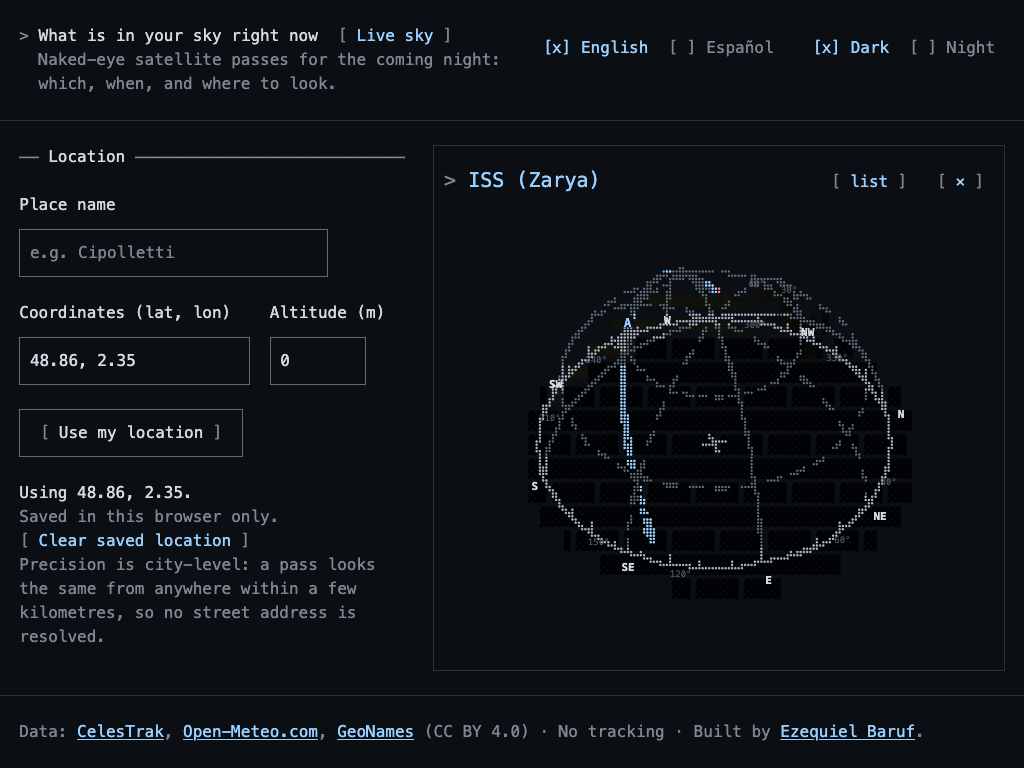
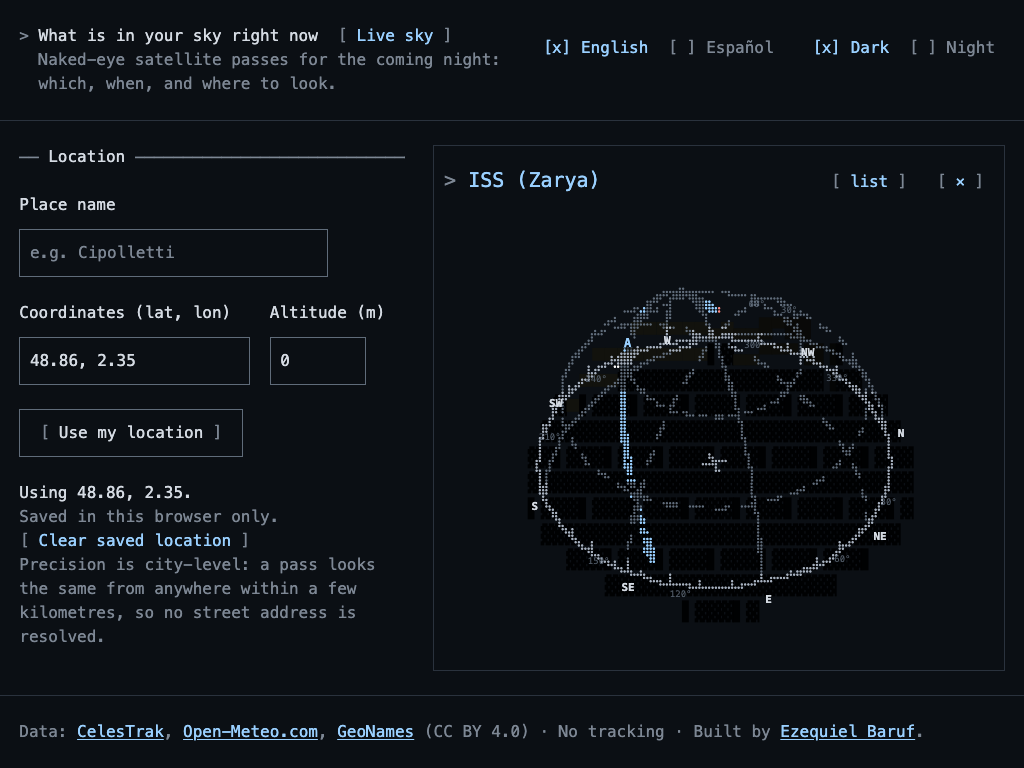
R60: v1.2 release preparation (#95)
* R60: bump version to 1.2.0

* R60: top up the v1 capture set — window ground states, live following, R61's wide sizes

* R60: generate topped-up v1 captures and re-shoot the desktop dome captures V12-11 moved

* R60: re-set bundle budgets by the D-178 rule (D-307) — chart moves to 105 KB

* R60: close F-54..F-56 and F-59..F-61 in the findings register

* R60: update the release checklist for v1.2 and size the captures job for 128 files

* R60: check off v1.2 release preparation

* R60: measure bundle budgets against the flag-on build CI actually enforces — main moves to 155

Changed region(s): [[0.5, 0.3438, 0.875, 0.7812], [0.7188, 0.625, 0.7812, 0.6875]]

diff --git a/tests/e2e/v1-captures.spec.ts b/tests/e2e/v1-captures.spec.ts
@@ -35,7 +35,7 @@
 import { expect, test, type Locator, type Page } from '@playwright/test';
 import type { Observer } from '../../src/model';
 import { CAPTURE_DIR, captureName, LOCALES, SCREENS, THEMES, VIEWPORTS, type CaptureLocale, type CaptureTheme, type CaptureWidth } from './captureSet';
-import { domeDrawn, hhmmss, openSettings, stripFilled, stubCompass } from './liveHelpers';
+import { domeDrawn, heading, hhmmss, openSettings, stripFilled, stubCompass } from './liveHelpers';
 // Both observers are at altitude 0, which is what typing a coordinate pair gives (FR-LOC-4) and what
 // the committed pass ids were computed at: a seeded altitude would move every pass start by a second
 // or two and the glare pass would no longer be found by its id. Only Paris is observed from; Neuquén
@@ -107,11 +107,18 @@ const FULL_PAGE = new Set(['location', 'home', 'settings']);
  * touch panel. Playwright grants touch per context, so these tests need a
  * `test.use` of their own and the rest of the set must not have it.
  */
-const TOUCH = new Set(['window']);
+const TOUCH = new Set(['window', 'window-ground', 'window-buried', 'live-following']);
 
 const VIEW_GROUP = { en: 'Chart view', es: 'Vista del gráfico' } as const;
 const WINDOW_OPTION = { en: 'Window', es: 'Ventana' } as const;
+const FOLLOW = { en: 'Follow phone', es: 'Seguir al teléfono' } as const;
 const FRAME_MS = 16;
+
+/** The two states R56 added to the window: `state` is how far below the horizon the phone points, in a square 60° box (R56's own numbers). */
+const GROUND_STATE: Record<'window-ground' | 'window-buried', { altDeg: number; state: 'ground' | 'buried' }> = {
+  'window-ground': { altDeg: -10, state: 'ground' },
+  'window-buried': { altDeg: -60, state: 'buried' },
+};
 
 interface SeedPrefs {
   locale: CaptureLocale;
@@ -269,6 +276,48 @@ async function settle(page: Page): Promise<void> {
   await page.clock.runFor(40 * FRAME_MS);
 }
 
+/** R56's two ground states, reached the same way `window` is: the pass's dome view, switched to the window, then swept down. */
+async function windowGroundState(page: Page, width: CaptureWidth, theme: CaptureTheme, locale: CaptureLocale, screen: 'window-ground' | 'window-buried'): Promise<void> {
+  const { altDeg, state } = GROUND_STATE[screen];
+  await stubCompass(page);
+  await openChart(page, width, theme, locale, 'dome');
+  const figure = guide(page).getByRole('figure');
+  await figure.getByRole('group', { name: VIEW_GROUP[locale] }).getByRole('button', { name: WINDOW_OPTION[locale] }).click();
+  // The paused clock holds the lazy chunk's Suspense reveal (R32), as it does for the dome.
+  await page.clock.runFor(1000);
+  await expect(figure).toHaveAttribute('data-view', 'window');
+  const drawing = figure.locator('[data-look-az]');
+  await expect(drawing).toBeAttached();
+  // Down the pass's own azimuth, so the sky the `ground` state still holds is the sky with the arc in it.
+  const azDeg = Number(await drawing.getAttribute('data-look-az'));
+  await point(page, azDeg, altDeg);
+  await settle(page);
+  await expect(drawing).toHaveAttribute('data-ground', state);
+  await page.mouse.move(0, 0);
+}
+
+/** R59's following state: the follow control pressed, and a heading turned until the pass's arc is in the window. */
+async function liveFollowing(page: Page, width: CaptureWidth, theme: CaptureTheme, locale: CaptureLocale): Promise<void> {
+  await stubCompass(page);
+  await liveAt(page, width, theme, locale);
+  await page.getByRole('button', { name: FOLLOW[locale] }).click();
+  await heading(page, 270);
+  await expect(page.getByTestId('follow-toggle')).toHaveAttribute('aria-pressed', 'true');
+  // The paused clock holds the lazy chunk's Suspense reveal (R32).
+  await page.clock.runFor(1000);
+  await expect(page.getByTestId('sky-chart')).toHaveAttribute('data-view', 'window');
+  await expect(page.getByTestId('stripe-block')).toHaveCount(0);
+  const window_ = page.locator('[data-look-az]');
+  await expect(window_).toBeAttached();
+  // Turned to where the pass is: the picture is worth more with an arc in it than with an empty sky.
+  for (const azDeg of [0, 30, 60, 90, 120, 150, 180, 210, 240, 270, 300, 330]) {
+    await point(page, azDeg, 20);
+    await settle(page);
+    if ((await page.locator('[data-drawing="window"] [data-pass-id]').count()) > 0) break;
+  }
+  await page.mouse.move(0, 0);
+}
+
 type Reach = (page: Page, width: CaptureWidth, theme: CaptureTheme, locale: CaptureLocale) => Promise<void>;
 
 /** Every screen's route to itself, by the name it carries in `captureSet.ts`. */
@@ -363,6 +412,20 @@ const REACH: Record<string, Reach> = {
   },
 
   /**
+   * R60 (FR-FOL-5, R56): the window swept down out of the sky, at whichever of
+   * the two states its own screen name carries. The look direction is down the
+   * pass's own azimuth, as R56's captures do it, so the `ground` state still
+   * has an arc left to show above the hatch.
+   */
+  async 'window-ground'(page, width, theme, locale) {
+    await windowGroundState(page, width, theme, locale, 'window-ground');
+  },
+
+  async 'window-buried'(page, width, theme, locale) {
+    await windowGroundState(page, width, theme, locale, 'window-buried');
+  },
+
+  /**
    * R53 (FR-LEG-2..4): the legend with something in every column. The live page
    * is the only screen that has all of it at once — the drawn passes in their
    * FR-TRAJ-1 states (`up`, `soon`, `gone`) and, with the FR-LIVE-6 toggle on,
@@ -425,6 +488,11 @@ const REACH: Record<string, Reach> = {
 
   async live(page, width, theme, locale) {
     await liveAt(page, width, theme, locale);
+  },
+
+  /** R60 (FR-FOL-1, R59): the live page with `[ follow phone ]` pressed. */
+  async 'live-following'(page, width, theme, locale) {
+    await liveFollowing(page, width, theme, locale);
   },
 };
 

diff --git a/tests/e2e/captureSet.ts b/tests/e2e/captureSet.ts
@@ -20,6 +20,14 @@
  * app's screens and not a phase's. The 1024 px profile R50 added for the home
  * and the guide (D-192) is the fourth thing SPEC §9 asks for and is already
  * here.
+ *
+ * R60 (SPEC §9 Phase 2c): v1.2 added two states the window can be in (FR-FOL-5,
+ * R56) and one the live page can be in (FR-FOL-1, R59), so `window-ground` and
+ * `window-buried` join `window` and `live-following` joins `live` — a state
+ * is a screen here when a reader can be looking at nothing else, the same
+ * reasoning `window` and `legend` already carry. And R61's rail (F-59) widens
+ * `live` itself: 1920, 2560 and 3840 join 1280 as the sizes a wide live page is
+ * shot at, since the rail only appears from `LIVE_TWO_COLUMN_MIN_PX` up.
  */
 
 export const THEMES = ['dark', 'night'] as const;
@@ -44,6 +52,9 @@ export const VIEWPORTS = {
   844: { width: 844, height: 390 },
   1024: { width: 1024, height: 768 },
   1280: { width: 1280, height: 800 },
+  1920: { width: 1920, height: 1080 },
+  2560: { width: 2560, height: 1440 },
+  3840: { width: 3840, height: 2160 },
 } as const;
 export type CaptureWidth = keyof typeof VIEWPORTS;
 
@@ -68,10 +79,13 @@ export const SCREENS: readonly CaptureScreen[] = [
   { name: 'guide', widths: [390, 1024, 1280], what: 'A pass open on the dome view, mid-pass, with the Sun and the Moon on the chart. At 1024 it has the right column to itself (F-6).' },
   { name: 'polar', widths: [390, 1280], what: 'The same pass on the polar view: the live marker and the flown arc as elements.' },
   { name: 'window', widths: [390, 1280], what: 'The sky window (FR-WIN-1) on the same pass, aimed at its peak by a stubbed orientation reading: the horizon, the compass names, the arc and the legend. A touch device at both widths, since that — not the width — is what FR-WIN-4 offers the view on.' },
+  { name: 'window-ground', widths: [390, 1280], what: 'The window swept 10° below the horizon (FR-FOL-5, R56): the hatch fills the ground and the sky above it keeps drawing.' },
+  { name: 'window-buried', widths: [390, 1280], what: 'The window swept 60° below the horizon (FR-FOL-5, R56): no sky is left in the field, and the box is the hatched panel with its note.' },
   { name: 'legend', widths: [390, 1280], what: 'The legend in its states (FR-LEG-3): the live page with the hidden objects shown, so the rows carry `up`, `soon`, `gone` and the FR-LIVE-6 reasons, and one row activated so its arc is highlighted and the others dim (FR-LEG-4). Under the drawing at 390, beside it at 1280 (FR-LEG-2).' },
   { name: 'favourites', widths: [390, 1280], what: 'The saved places, with the one in use marked.' },
   { name: 'shortcuts', widths: [390, 1280], what: 'The keyboard shortcuts overlay over an inert page.' },
-  { name: 'live', widths: [390, 844, 1280], what: 'The live sky page: the dome, the status strip, the time stripe and the controls. 844 is the landscape phone.' },
+  { name: 'live', widths: [390, 844, 1280, 1920, 2560, 3840], what: 'The live sky page: the dome, the status strip, the time stripe and the controls. 844 is the landscape phone; 1920, 2560 and 3840 are R61\'s wide rail (F-59).' },
+  { name: 'live-following', widths: [390, 1280], what: 'The live page with `[ follow phone ]` pressed (FR-FOL-1, R59): the sky window in the box, the stripe block and the playback row gone, the strip carrying the true-north line.' },
 ];
 
 export const CAPTURE_DIR = 'docs/screenshots';

diff --git a/scripts/bundle-budget.ts b/scripts/bundle-budget.ts
@@ -79,6 +79,34 @@ export interface Budget {
  * room every other row has, and the next six kilobytes are a `::warning::`
  * instead of silence.
  *
+ * R60 re-set them the same way on the 1.2.0 build (SPEC §9 Phase 2c, D-307),
+ * built with `VITE_MOON_LORE=on` as CI's bundle stage does (R42), since that
+ * is the build the script's budget is actually enforced against — a plain
+ * flag-off `npm run build` is a few tenths of a KB smaller in `main` and is
+ * what `tests/build/flags.test.ts` and the capture set measure instead (D-183).
+ * Two chunks move, one each way: `SkyDome-*.js` moves *down* — R57's fit rule
+ * (D-279) trims the raster back to a size the grid can hold rather than
+ * running it coarser, and R61's centring (D-317) samples the silhouette
+ * instead of the ring, so the chart chunk shed 2.9 KB it had carried since
+ * R53 (97.1 → 94.2) — and `index-*.js` moves *up* one rounding step: `main`
+ * measures 136.6 against the 1.1.0 build's 135.3, and ×1.1 (150.3) crosses
+ * the next 5 KB line the 1.1.0 figure (148.8) had not reached:
+ *
+ * | chunk          | file                  | measured | budget | was | ceiling |
+ * |----------------|-----------------------|---------:|-------:|----:|--------:|
+ * | main           | `index-*.js`          |    136.6 |    155 | 150 |     170 |
+ * | chart          | `SkyDome-*.js`        |     94.2 |    105 | 110 |     110 |
+ * | worker         | `passes.worker-*`     |     36.1 |     40 |  40 |     130 |
+ * | astronomy      | `skyBodies-*.js`      |     22.1 |     25 |  25 |      30 |
+ * | live           | `Live-*.js`           |      8.0 |     10 |  10 |      40 |
+ * | declination    | `useDeclination-*.js` |      6.1 |     10 |  10 |       — |
+ * | window         | `SkyWindow-*.js`      |      5.9 |     10 |  10 |       — |
+ * | service worker | `workbox-*.js`        |      5.0 |     10 |  10 |      15 |
+ *
+ * `live` and `window` measure a little higher than the 1.1.0 build (R59's
+ * follow control and R56's ground state on one, nothing on the other's own
+ * code) but neither crosses a 5 KB line, so both budgets hold at the floor.
+ *
  * What each one holds, and why it is a budget of its own rather than a row in
  * the main chunk:
  *
@@ -125,8 +153,8 @@ export interface Budget {
  * the app never fetches.
  */
 export const BUDGETS: readonly Budget[] = [
-  { name: 'main', match: (file, mainFile) => file === mainFile, limitKb: 150 },
-  { name: 'chart', match: (file) => /^SkyDome-.*\.js$/.test(file), limitKb: 110 },
+  { name: 'main', match: (file, mainFile) => file === mainFile, limitKb: 155 }, // R60: 136.6 measured (flag on), crossing the 150 line (D-307)
+  { name: 'chart', match: (file) => /^SkyDome-.*\.js$/.test(file), limitKb: 105 }, // R60: 94.2 measured, down from 97.1 (D-307)
   { name: 'worker', match: (file) => /^passes\.worker-.*\.js$/.test(file), limitKb: 40 },
   { name: 'service worker', match: (file) => /^(sw|workbox-.*)\.js$/.test(file), limitKb: 10 },
   { name: 'astronomy', match: (file) => /^skyBodies-.*\.js$/.test(file), limitKb: 25 },

diff --git a/PLAN.md b/PLAN.md
@@ -533,6 +533,7 @@ These plan SPEC v1.2 (V12-1..V12-6). v1.1 spent D-183..D-275; v1.2 starts at D-2
 - **D-296 — A failed chart view ends through `dropChartView`, which writes nothing.** (FR-WIN-5 as amended, D-277.) D-277 makes `setChartView` both the view control's setter and the thing that clears the override, and `SkyChart`'s `unavailable()` — a refused orientation permission, a phone with no compass heading — was still calling it, so a view the *follow control* opened could save itself over the view the reader picked, which is what the amendment forbids. `slices/prefs.ts` gains `dropChartView(view)`: it clears the override when the failed view was the override (back to what the reader chose) and overrides with the default when the failed view was the saved choice (the dome is shown, the preference waits for the phone it was saved on), and in neither case does it touch `localPrefs`. §7.9 is still unchanged. The slice now has exactly three ways the view moves — the view control writes, the follow control overrides, a failure drops — and one of them writes.
 - **D-300 — The compact live page turns the chart floor off, because it cannot be met without overflowing the frame.** (FR-LIVE-7 as amended v1.2, FR-COMP-5, F-55, D-281; R59.) D-281 asks for `--chart-floor` to be "a floor that yields rather than a minimum that overflows". It is applied in `ChartFrame.module.css` twice — as `min-height` on the drawing and as the minimum of its track — and both are hard: where the rows leave less than the frame's width, the frame's grid grows past its own box and every row of the frame under the drawing lands on the page's rows beneath it. That is what F-55 saw, and measuring it is what shows how far off the arithmetic is: on a 390 px touch phone the frame spends **96 px on the view control** (three views since FR-WIN-1, two rows of tap targets) and **96 px on the legend** (D-187's four rows) before the page's own rows — 24 top, 55 strip, 152 stripe block, 48 playback, 48 actions, 24 readout — are counted, some 550 px above and below a box whose floor is 374. So the box cannot have its width at 390 × 667, and at 390 × 844 it can only have it by overflowing. The live page therefore sets `--chart-floor-on: 0` on compact, which is exactly what D-233 put that switch there for ("a page whose rows do not yet leave the box its width sets it to 0 rather than have the drawing spill over the rows under it"), and the floor becomes the page's own `minmax(0, 1fr)` dome row: every pixel the rows leave, more than the frame's width where there is room and everything left where there is not. `SkyChart.contract.test.tsx` pins the switch being *used* in place of R48's assertion that it was not; `live-compact.spec.ts` measures the result at both phone heights. What this does not do is give the box back its width — that needs a row cut in the `chart` lane (the view control on compact, D-187's legend budget on a short phone), which is a finding for the register and not this task's to make.
 - **D-301 — The follow control waits for one reading before it opens anything.** (FR-FOL-1, FR-FOL-2, D-276; R59.) D-276 leaves `useFollowPhone` "the presence test, the permission request, the `relative` and `denied` notes" while `window/useDeviceOrientation` is the only listener on the sensor. The two meet at a question the permission cannot answer: a phone can grant motion access and still send readings with no north in them, and FR-FOL-2 says such a device "shows its note and the view does not change". So the press arms a listener of the hook's own, and the *first reading* decides — a heading opens the window and the listener goes with the same commit that mounts the window's, so the two are never subscribed at once; no heading is the note, with the view untouched. This is F-42's rule kept ("the click arms; the first reading is what names the state"), and it is what makes "the view does not change" literally true rather than a flicker through the window and back out of it. The permission goes through `window/orientationAccess.ts` rather than `compassHeading.permissionRequest` directly, so the grant this tap wins is remembered for the session and the window it opens arms at once instead of showing `[ point at the sky ]`. And `state` is derived from the store (`viewOverride === 'window'`) rather than mirrored beside it: following *is* the override, so a view picked by hand and a window that reports it cannot run here (D-296) end it with no listener of the hook's own watching for either.
+- **D-307 — The chart chunk's budget follows R57 and R61 down to 105 KB; the main chunk crosses a rounding line up to 155.** (R60; D-178, SPEC §9 Phase 2c.) The release re-set is `measured × 1.1`, rounded up to the next 5 KB, floored at 10 and capped at the §11 ceiling, measured on the 1.2.0 build with `VITE_MOON_LORE=on` as CI's bundle stage builds it (R42) — a plain `npm run build` is a few tenths of a KB smaller and is not what the script's number is enforced against. Two rows move. `SkyDome-*.js` measures 94.2 KB against a budget of 110 — R57's raster fix (D-279) stopped the grid running coarser past its column cap and R61's centring (D-317) samples the silhouette rather than the wider ring, together shedding the 2.9 KB the fit fixes cost the phase — so its budget follows down to 105. `index-*.js` measures 136.6 KB against 150, 1.3 KB over the 1.1.0 build's 135.3; ×1.1 is 150.3, one rounding step past the 148.8 the 1.1.0 figure gave, so the budget follows up to 155 — the two new window states' Spanish and English copy (D-283) landing in the `ui` catalog, which ships in main by design (§11). `Live-*.js` (8.0 KB, up from 7.6 with the follow control) and `SkyWindow-*.js` (5.9 KB, up from 5.3 with the ground state) both grew and both still floor at 10, so neither budget moves. Every other budget re-measures to the number it already carries (worker 36.1 → 40, astronomy 22.1 → 25, declination 6.1 → 10, service worker 5.0 → 10).
 
 ---
 
@@ -1387,7 +1388,7 @@ Two further observer locations (one northern mid-latitude, one near the equator)
 
   *(v1)* The budgets are re-set for the new chunks, as the SPEC §9 definition of done requires: **main ≤ 170 KB** gzipped (the second language catalog, the live page's shell, the offline and share code — the live page itself is a lazy route, so only its entry lands here), **chart ≤ 110 KB** (colour and the second scene are configuration, not new dependencies), **live route ≤ 40 KB** as its own lazy chunk, **worker ≤ 130 KB** (the Moon adds no dependency; `astronomy-engine` is already there), **service worker ≤ 15 KB** (Workbox's runtime, outside the main budget by construction) and, from R22, **astronomy ≤ 30 KB** (`lib/skyBodies.ts` and the part of `astronomy-engine` it reaches, split out of the main chunk by the dynamic import of D-148 and fetched once a chart is on screen). Both catalogs ship in the main chunk: one language is a few kilobytes of strings, and lazy-loading a language would make the switch flash.
 
-  *(v1, R36, D-178)* Those numbers are the **ceilings** the phase was planned against. What `scripts/bundle-budget.ts` now enforces is the 1.0.0 build re-measured and rounded up — main 150 KB, chart 110, worker 40, astronomy 25, live 10, service worker 10 — every one of them inside its ceiling. Measured: main 134.7 KB, chart 97.1, worker 36.1, astronomy 22.1, live 6.3, service worker 5.0 (`workbox-*.js`; `sw.js` is 1.0). Raise a ceiling here when a feature needs it, then re-measure and re-set the enforced budget the same way. *(v1.1, R53, D-274)* Re-set on the 1.1.0 build: main 150 KB, chart 110, worker 40, astronomy 25, live 10, declination 10, window 10, service worker 10, measured main 135.3, chart 97.1, worker 36.1, astronomy 22.1, live 7.6, declination 6.1, window 5.3, service worker 5.0. Only the live row moves, from 15 back to the floor.
+  *(v1, R36, D-178)* Those numbers are the **ceilings** the phase was planned against. What `scripts/bundle-budget.ts` now enforces is the 1.0.0 build re-measured and rounded up — main 150 KB, chart 110, worker 40, astronomy 25, live 10, service worker 10 — every one of them inside its ceiling. Measured: main 134.7 KB, chart 97.1, worker 36.1, astronomy 22.1, live 6.3, service worker 5.0 (`workbox-*.js`; `sw.js` is 1.0). Raise a ceiling here when a feature needs it, then re-measure and re-set the enforced budget the same way. *(v1.1, R53, D-274)* Re-set on the 1.1.0 build: main 150 KB, chart 110, worker 40, astronomy 25, live 10, declination 10, window 10, service worker 10, measured main 135.3, chart 97.1, worker 36.1, astronomy 22.1, live 7.6, declination 6.1, window 5.3, service worker 5.0. Only the live row moves, from 15 back to the floor. *(v1.2, R60, D-307)* Re-set on the 1.2.0 build (built with `VITE_MOON_LORE=on`, as CI's bundle stage does): main 155 KB, chart 105, worker 40, astronomy 25, live 10, declination 10, window 10, service worker 10, measured main 136.6, chart 94.2, worker 36.1, astronomy 22.1, live 8.0, declination 6.1, window 5.9, service worker 5.0. Two rows move: chart down to 105 as R57's raster fix and R61's centring together shed 2.9 KB the fit fixes had cost it, and main up to 155 as its measured figure crossed the next rounding line.
 
 ### 11.1 Runtime dependencies
 

diff --git a/docs/RELEASE.md b/docs/RELEASE.md
@@ -13,7 +13,7 @@ checks the v1 surface added, plus the tag and the deploy, which are the owner's.
 ## 1. Before merging
 
 - [ ] CI is green on the branch, and the build log's bundle table (`npm run bundle:budget`)
-      shows every budgeted chunk within its budget: main ≤ 150 KB, chart ≤ 110 KB,
+      shows every budgeted chunk within its budget: main ≤ 155 KB, chart ≤ 105 KB,
       worker ≤ 40 KB, astronomy ≤ 25 KB, live ≤ 10 KB and the service worker ≤ 10 KB
       gzipped (D-178 — the measured build plus a tenth, all of them inside the PLAN §11
       ceilings). An overrun is a `::warning::` annotation; if one is accepted, the PR says
@@ -268,3 +268,50 @@ Owner steps, in this order, and none of them belong to a task session:
 - [ ] Record in the release PR: the bundle table, the §3, §6.1, §7.1 and §7.2 device numbers
       with the two phones named, the §4 Heavens-Above comparison with the observer and both
       element epochs, and the date.
+
+## 8. v1.2 (spec §9 Phase 2c)
+
+Everything above still applies, §3 and §4 included. v1.2 closed six findings rather than
+adding a screen, so most of what changed is behind existing checks (the bundle table above,
+the capture set, the golden fixtures); the one thing that cannot be checked headlessly is the
+follow control, which is a sensor feature like the sky window in §7.1.
+
+### 8.1 Follow and the ground state on a real phone (FR-FOL-1..5, US-21 AC8..10)
+
+On the phone already used for §7.1, outdoors, with the sky window already working there.
+
+- [ ] Open the live page, choose the dome or the polar view, and press `[ follow phone ]`:
+      the chart switches to the window showing the sky the phone points at, within the same
+      tap that asked for motion access if it had not been granted yet (FR-FOL-1).
+- [ ] Press it again: the view returns to the one it came from (dome or polar), not to
+      whatever the toggle happens to save (FR-FOL-2).
+- [ ] Point the phone down at the ground, past the horizon: past about 10° below it the sky
+      above the hatch keeps drawing and a line reads "Pointing at the ground — raise the
+      phone."; past about 60° below it the box is the hatched panel alone, with "You are
+      pointing at the ground — raise the phone." (FR-FOL-5).
+- [ ] Turn the phone off the sky and back: the note clears the moment the field has sky in it
+      again, with no stale arc left drawn under the hatch.
+
+### 8.2 The wide dome, one more time (FR-DOME-1 as amended v1.2.1, F-59..F-61)
+
+A quick look rather than a measurement — `dome-fit.spec.ts`, `dome-resize.spec.ts` and
+`live-rail.spec.ts` are what actually measure this — but a screen is worth confirming by eye
+before the tag.
+
+- [ ] On a desktop browser, open the live page at a wide window and resize it through a few
+      sizes (about 1280, 1920 and whatever the monitor's full width is): the whole bowl stays
+      visible at every size, its outline included at the top, the rows stand in a rail beside
+      it once the window is wide enough, and nothing is cut or clipped mid-resize.
+
+### 8.3 The release itself
+
+Owner steps, in this order, and none of them belong to a task session:
+
+- [ ] `package.json` is `1.2.0` on `main` and every task of the phase is checked off in
+      `TASKS.md`.
+- [ ] The `captures.yml` run on the merge commit is green: 128 files, no missing capture.
+- [ ] Tag it: `git tag -a v1.2.0 -m "v1.2: follow and the fixes" && git push origin v1.2.0`.
+- [ ] Deploy `main` to `https://in-your-sky.ezequiel-baruf.workers.dev` and run §2 and §5
+      against production.
+- [ ] Record in the release PR: the bundle table, the §3, §6.1 and §8.1 device numbers, the
+      §4 Heavens-Above comparison with the observer and both element epochs, and the date.

diff --git a/SPEC.md b/SPEC.md
@@ -424,7 +424,7 @@ The R15 dome reads as a wire cage: rings, meridians and arc in one colour at nea
 
 ### 4.20 The v1 findings *(v1.1)*
 
-Every v1 task PR was merged with its review findings open (V1-11's gate merges on the owner's word, not on a clean review). They are listed here so the phase closes them, with the PR they came from and the lane that owns the code. The wording is the reviewer's, shortened. *(v1.1.1)* F-51..F-53 are the owner's findings on the wide live page after wave 4 (V11-14), measured on the fixtures at 1280 × 800, 1920 × 1080 and 2560 × 1440. *(v1.2)* F-54..F-56 are the owner's findings on the released v1.1 build (V12-3..V12-5); FR-FIX-1 governs them as it governs the rest, and the v1.2 tasks carry them. F-57 and F-58 are R56's review findings, merged open with #87 and written down here for a later phase as V12-6 asks; no v1.2 task carries them. *(v1.2.1)* F-59 is the owner's finding on the released v1.2 build (V12-7), and F-60 and F-61 are what reproducing it found (V12-9, V12-11); R61 carries all three. F-62 is R59's follow-up, merged open with #91 and written down here for a later phase as V12-6 asks; no v1.2 task carries it.
+Every v1 task PR was merged with its review findings open (V1-11's gate merges on the owner's word, not on a clean review). They are listed here so the phase closes them, with the PR they came from and the lane that owns the code. The wording is the reviewer's, shortened. *(v1.1.1)* F-51..F-53 are the owner's findings on the wide live page after wave 4 (V11-14), measured on the fixtures at 1280 × 800, 1920 × 1080 and 2560 × 1440. *(v1.2)* F-54..F-56 are the owner's findings on the released v1.1 build (V12-3..V12-5); FR-FIX-1 governs them as it governs the rest, and the v1.2 tasks carry them. F-57 and F-58 are R56's review findings, merged open with #87 and written down here for a later phase as V12-6 asks; no v1.2 task carries them. *(v1.2.1)* F-59 is the owner's finding on the released v1.2 build (V12-7), and F-60 and F-61 are what reproducing it found (V12-9, V12-11); R61 carries all three. F-62 is R59's follow-up, merged open with #91 and written down here for a later phase as V12-6 asks; no v1.2 task carries it. *(v1.2 release)* F-54, F-55 and F-56 are closed by R57 (#89), R59 (#91) and R58 (#90) respectively; F-59, F-60 and F-61 are all three closed by R61 (#92); each closure is a change with a test that fails on the old code (FR-FIX-1), recorded in that PR. F-57, F-58 and F-62 stay open, as this section already says: no v1.2 task carries them.
 
 - **FR-FIX-1** Each finding below MUST be closed by a change with a test that fails on the old code, or recorded as *already fixed on main* with the commit that fixed it, or moved to Phase 3 by an explicit Decision Log row. A findings task per lane (V11-11) carries them; a finding whose code a v1.1 feature task rewrites MAY be closed by that task instead, named in its acceptance.
 - **FR-FIX-2** Findings that are e2e or CI defects (F-33, F-34, F-36, F-37, F-38) are closed in the first wave together with §4.21, before any feature task runs.

diff --git a/TASKS.md b/TASKS.md
@@ -1233,7 +1233,7 @@ Delivery is PLAN §16 unchanged, cut by §16.9: five tasks, three waves, one tas
     - `npm test`, lint, typecheck and the e2e suite green.
   - **Done 2026-09-07:** first as the rail alone (D-312, D-313), then rewritten the same day on the owner's three reviews of the previews (V12-8..V12-11; D-314..D-317) — a ladder of four fixed boxes was tried and withdrawn within the day, because a browser window is never its screen (a 2560 × 1440 monitor's 1235 px viewport took the 1920 step); and the third review found F-61, the top of the bowl cut off on every desktop since R45, because the fit rule never counted the bowl's silhouette. Measured on the cut box at D-317's 2.4 : 2.0, box then drawing across and down: 1280 × 800 → 548 × 457 in the one-column page (D-319), 92 % / 92 %; 1920 × 1080 → 1022 × 852 through the stripe under it, 92 % / 92 %; 2560 × 1235 → 1208 × 1007, 92 % / 92 %; 2560 × 1440 → 1454 × 1212; 3840 × 2160 → 2318 × 1932, 92 % / 92 %; the blank above and below the drawing within a cell of each other (from 65–69 % across and a cut top on the old layout). The four screenshots the owner sent first were one tab resized, and the resize was F-60: the scene's remount key carried the column count alone, which every desktop box caps; with the font size in the key the resize chain gives the fresh-load numbers exactly. One recorded lane crossing (the `aside`, `stripe` and `boxAspect` slots in `chart`, and D-317 in `dome/camera.ts`). The fifth review took the one-column page further: the stripe and the legend full width and the status strip left aligned, so everything under the drawing shares one margin (V12-15, D-320). Captures: `docs/screenshots/r61-live-{1280,1920,2560,3840}-dark-en.png` and `r61-live-1280-night-en.png`; the v1 set's live and legend captures at 1280 px re-shot; every other dome capture moves with D-317's centring and is R60's to re-shoot, and R54's fold captures are left as the record of the layout this replaces.
 
-- [ ] **R60 — v1.2 release preparation**
+- [x] **R60 — v1.2 release preparation**
   - **Lane:** ui
   - **Model:** sonnet
   - **Gate:** owner
